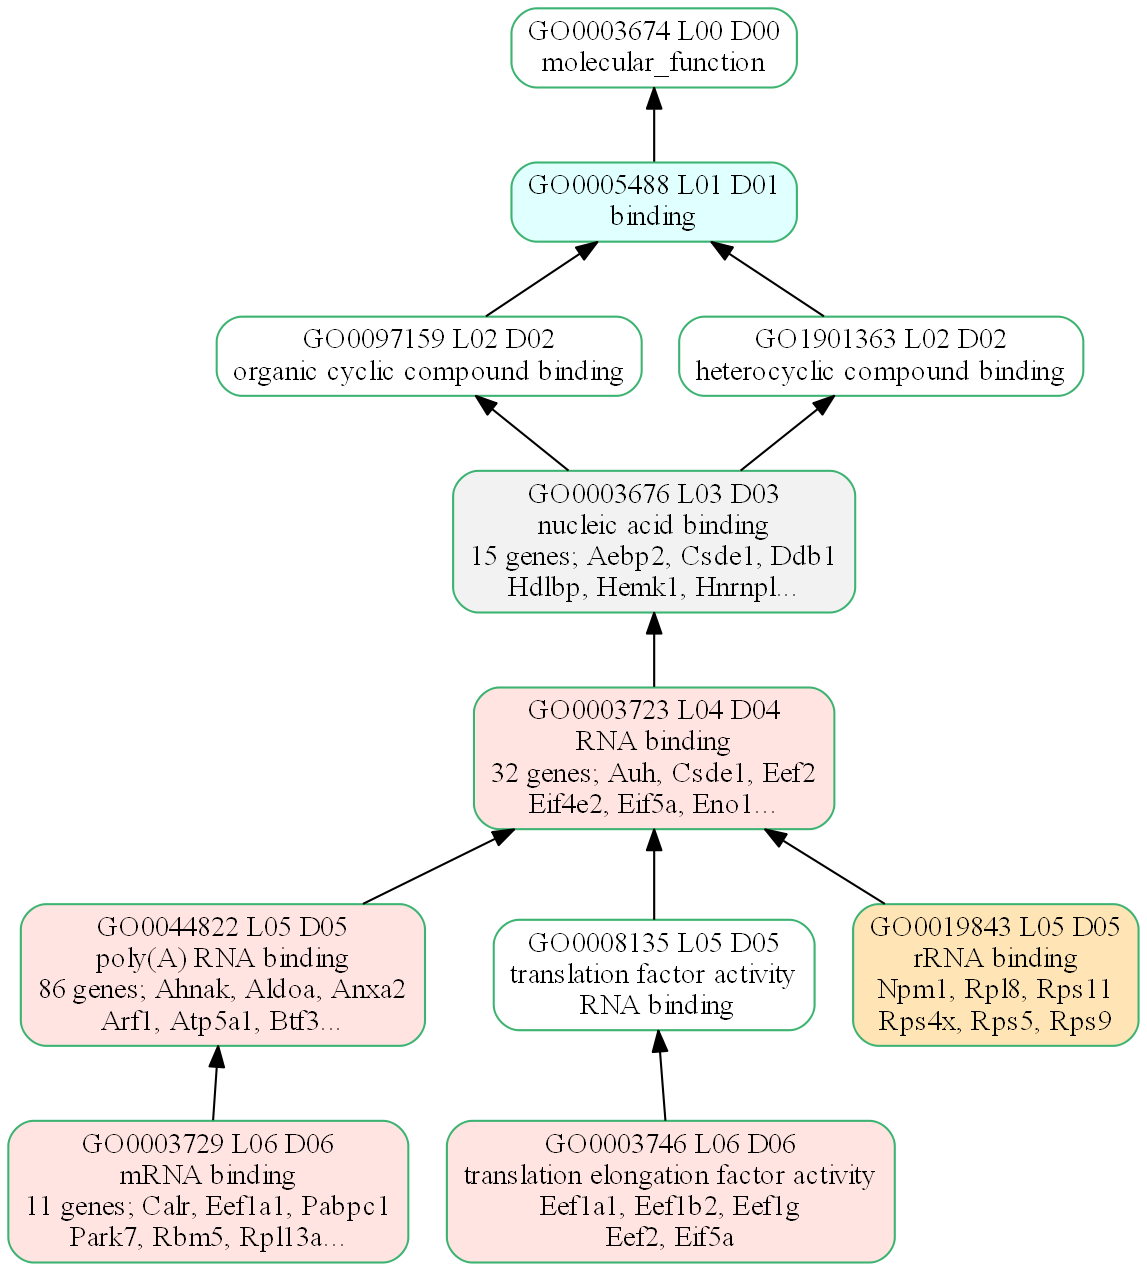
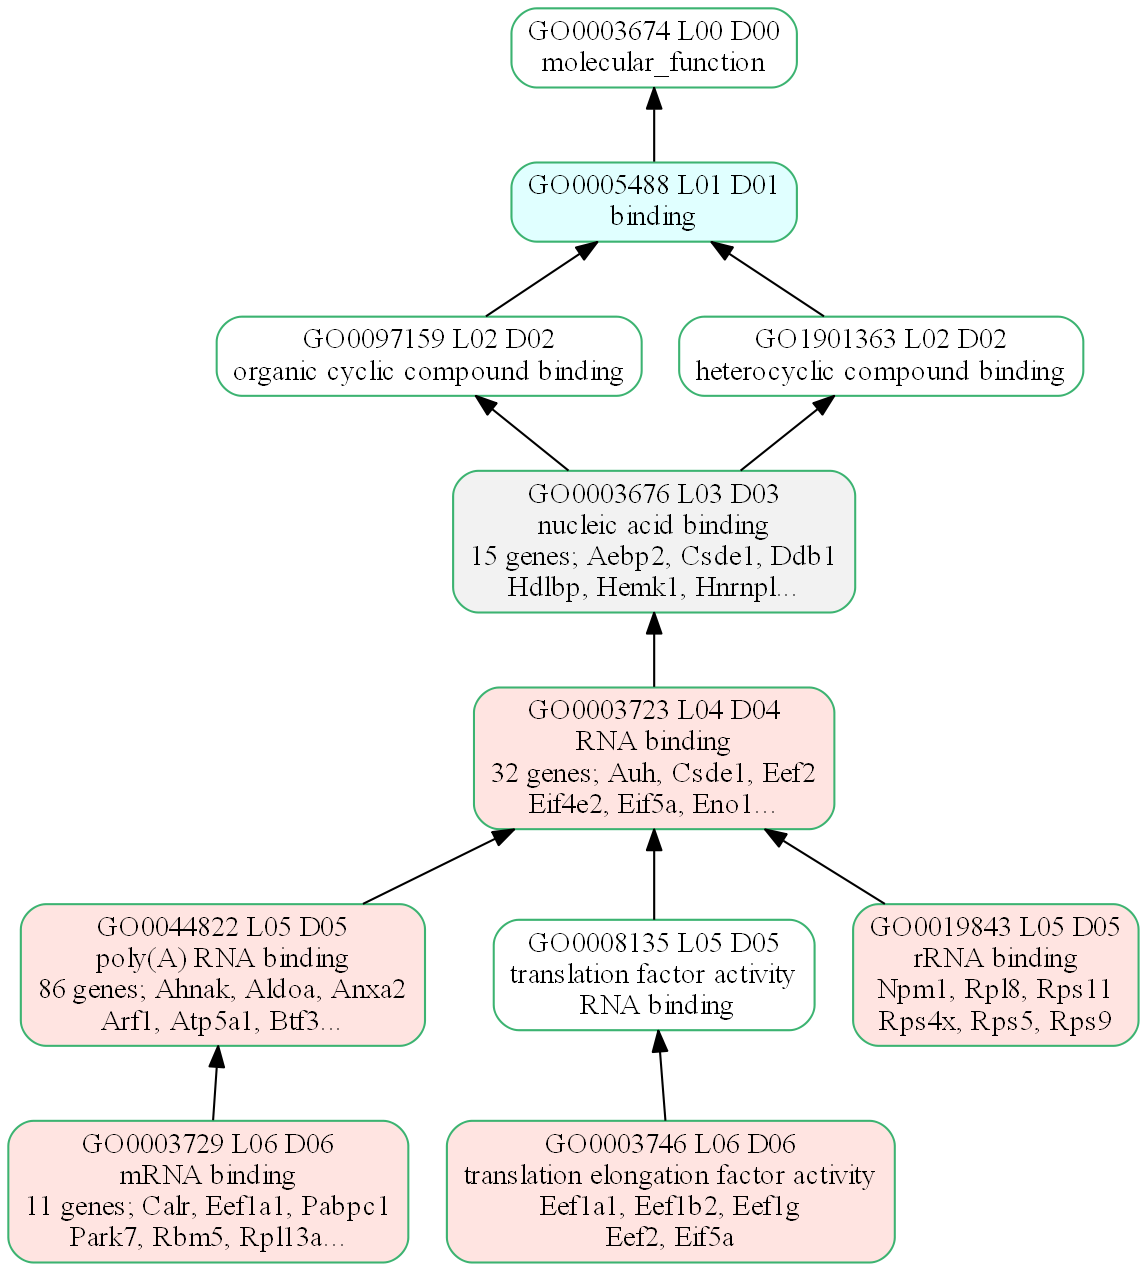
Now showing study genes associated with (greyed) GO terms over the significance threshold

Changed region(s): [[0.7323, 0.7057, 1.0, 0.8285]]

diff --git a/tests/test_nbt3102.py b/tests/test_nbt3102.py
@@ -56,16 +56,17 @@ def test_example(log=sys.stdout):
     geneids_study = get_geneid2symbol("nbt.3102-S4_GeneIDs.xlsx", log)
     goeaobj = get_goeaobj("fdr_bh", geneids_pop, taxid)
     # Run GOEA on study
-    keep_if = lambda nt: getattr(nt, "p_fdr_bh" ) < 0.05 # keep if results are significant
-    goea_results = goeaobj.run_study(geneids_study, keep_if=keep_if)
-    compare_results(goea_results)
-    geneids = goeaobj.get_study_items(goea_results)
+    #keep_if = lambda nt: getattr(nt, "p_fdr_bh" ) < 0.05 # keep if results are significant
+    goea_results_all = goeaobj.run_study(geneids_study)
+    goea_results_sig = [r for r in goea_results_all if r.p_fdr_bh < 0.05]
+    compare_results(goea_results_sig)
+    geneids = goeaobj.get_study_items(goea_results_sig)
     # Print GOEA results to files
-    goeaobj.wr_xlsx("nbt3102.xlsx", goea_results)
-    goeaobj.wr_txt("nbt3102.txt", goea_results)
+    goeaobj.wr_xlsx("nbt3102.xlsx", goea_results_sig)
+    goeaobj.wr_txt("nbt3102.txt", goea_results_sig)
     # Plot all significant GO terms w/annotated study info (large plots)
-    #plot_results("nbt3102_{NS}.png", goea_results)
-    #plot_results("nbt3102_{NS}_sym.png", goea_results, study_items=5, items_p_line=2, id2symbol=geneids_study)
+    #plot_results("nbt3102_{NS}.png", goea_results_sig)
+    #plot_results("nbt3102_{NS}_sym.png", goea_results_sig, study_items=5, items_p_line=2, id2symbol=geneids_study)
 
 
 
@@ -82,13 +83,13 @@ def test_example(log=sys.stdout):
     # Item 1) Words in GO names associated with large numbers of study genes
     # --------------------------------------------------------------------
     # What GO term words are associated with the largest number of study genes?
-    prt_word2genecnt("nbt3102_genecnt_GOword.txt", goea_results, log)
+    prt_word2genecnt("nbt3102_genecnt_GOword.txt", goea_results_sig, log)
     # Curated selection of GO words associated with large numbers of study genes
     freq_seen = ['RNA', 'translation', 'mitochondrial', 'mitochondrion', 'ribosomal', 'ribosome',
         'adhesion', 'endoplasmic', 'nucleotide', 'apoptotic', 'myelin']
     # Collect the GOs which contains the chosen frequently seen words
-    word2gos = get_word2gos(freq_seen, goea_results)
-    go2res = {nt.GO:nt for nt in goea_results}
+    word2gos = get_word2gos(freq_seen, goea_results_sig)
+    go2res = {nt.GO:nt for nt in goea_results_sig}
     # Print words of interest, the sig GO terms which contain that word, and study genes.
     prt_word_GO_genes("nbt3102_GO_word_genes.txt", word2gos, go2res, geneids_study, log)
     # Plot each set of GOs along w/study gene info 
@@ -99,7 +100,7 @@ def test_example(log=sys.stdout):
            goid2goobj, # source GOs and their GOTerm object
            study_items=15, # Max number of gene symbols to print in each GO term
            id2symbol=geneids_study, # Contains GeneID-to-Symbol
-           goea_results=goea_results, # pvals used for GO Term coloring
+           goea_results=goea_results_all, # pvals used for GO Term coloring
            dpi=dpi)
       
     
@@ -119,29 +120,29 @@ def test_example(log=sys.stdout):
         'GO:0030890', # BP 8.22e-07  7 positive regulation of B cell proliferation
     ]
     plot_gos("nbt3102_GOs.png", goid_subset, obo, dpi=dpi)
-    plot_gos("nbt3102_GOs_genecnt.png", goid_subset, obo, goea_results=goea_results, dpi=dpi)
+    plot_gos("nbt3102_GOs_genecnt.png", goid_subset, obo, goea_results=goea_results_all, dpi=dpi)
     plot_gos("nbt3102_GOs_genelst.png", goid_subset, obo, 
-        study_items=True, goea_results=goea_results, dpi=dpi)
+        study_items=True, goea_results=goea_results_all, dpi=dpi)
     plot_gos("nbt3102_GOs_symlst.png", goid_subset, obo, 
-        study_items=True, id2symbol=geneids_study, goea_results=goea_results, dpi=dpi)
+        study_items=True, id2symbol=geneids_study, goea_results=goea_results_all, dpi=dpi)
     plot_gos("nbt3102_GOs_symlst_trunc.png", goid_subset, obo, 
-        study_items=5, id2symbol=geneids_study, goea_results=goea_results, dpi=dpi)
+        study_items=5, id2symbol=geneids_study, goea_results=goea_results_all, dpi=dpi)
     plot_gos("nbt3102_GOs_GO0005743.png", ["GO:0005743"], obo, 
         items_p_line=2, study_items=6, 
-        id2symbol=geneids_study, goea_results=goea_results, dpi=dpi)
+        id2symbol=geneids_study, goea_results=goea_results_all, dpi=dpi)
 
 
     # --------------------------------------------------------------------
     # Item 3) Create one GO sub-plot per significant GO term from study
     # --------------------------------------------------------------------
-    for rec in goea_results:
+    for rec in goea_results_sig:
         png = "nbt3102_{NS}_{GO}.png".format(GO=rec.GO.replace(':', '_'), NS=rec.NS)
         goid2goobj = {rec.GO:rec.goterm}
         plot_goid2goobj(png,
             goid2goobj, # source GOs and their GOTerm object
             study_items=15, # Max number of gene symbols to print in each GO term
             id2symbol=geneids_study, # Contains GeneID-to-Symbol
-            goea_results=goea_results, # pvals used for GO Term coloring
+            goea_results=goea_results_all, # pvals used for GO Term coloring
             dpi=dpi)
 
 
@@ -160,7 +161,7 @@ def test_example(log=sys.stdout):
     ]
     plot_gos("nbt3102_CC_ribosome.png", goid_subset, obo, 
         study_items=6, id2symbol=geneids_study, items_p_line=3,
-        goea_results=goea_results, dpi=dpi)
+        goea_results=goea_results_sig, dpi=dpi)
 
     goid_subset = [
       'GO:0003723', # MF D04 RNA binding (32 genes)
@@ -169,12 +170,16 @@ def test_example(log=sys.stdout):
       'GO:0019843', # MF D05 rRNA binding (6 genes)
       'GO:0003746', # MF D06 translation elongation factor activity (5 genes)
     ]
+    plot_gos("nbt3102_MF_RNA_genecnt.png", 
+        goid_subset, 
+        obo, 
+        goea_results=goea_results_all, dpi=150)
     for dpi in [150, 1200]: # 150 for review, 1200 for publication
         plot_gos("nbt3102_MF_RNA_dpi{DPI}.png".format(DPI=dpi), 
             goid_subset, 
             obo, 
             study_items=6, id2symbol=geneids_study, items_p_line=3,
-            goea_results=goea_results, dpi=dpi)
+            goea_results=goea_results_all, dpi=dpi)
 
     # --------------------------------------------------------------------
     # Item 5) Are any significant geneids related to cell cycle?
@@ -215,9 +220,9 @@ def get_geneid2symbol(fin_xlsx, log):
             gene2symbol[int(geneid)] = symbol
     return gene2symbol
 
-def compare_results(goea_results):
+def compare_results(goea_results_sig):
     """Compare GOATOOLS to results from Nature paper."""
-    act_goids = [rec.GO for rec in goea_results]
+    act_goids = [rec.GO for rec in goea_results_sig]
     exp_goids = set(paper_top20())
     overlap = set(act_goids).intersection(exp_goids)
     fout_txt = "nbt3102_compare.txt"
@@ -226,7 +231,7 @@ def compare_results(goea_results):
             N = len(overlap), M = len(exp_goids)))
         idx = 1
         gos = set()
-        for rec in goea_results:
+        for rec in goea_results_sig:
             if rec.GO in exp_goids:
                 gos.add(rec.GO)
                 sig = '*' if rec.p_fdr_bh < 0.05 else ' '
@@ -238,10 +243,10 @@ def compare_results(goea_results):
         prt.write("NOT LISTED: {GO}\n".format(GO=", ".join(nogo)))
    
 
-def prt_word2genecnt(fout, goea_results, log):
+def prt_word2genecnt(fout, goea_results_sig, log):
     """Get words in GO term names and the number of study genes associated with GO words."""
     word2genes = defaultdict(set)
-    for rec in goea_results:
+    for rec in goea_results_sig:
         study_items = rec.study_items
         for word in rec.name.split():
             word2genes[word] |= study_items
@@ -251,11 +256,11 @@ def prt_word2genecnt(fout, goea_results, log):
             wordstrm.write("{CNT:>3} {WORD}\n".format(CNT=cnt, WORD=word))
     log.write("  WROTE: {F}\n".format(F=fout))
        
-def get_word2gos(words, goea_results):
+def get_word2gos(words, goea_results_sig):
     """Get all GO terms which contain a word in 'words'."""        
     word2gos = defaultdict(set)
     for word in words: 
-        for rec in goea_results: 
+        for rec in goea_results_sig: 
             if word in rec.name:
                 word2gos[word].add(rec.GO)
     return OrderedDict([(w, word2gos[w]) for w in words])
